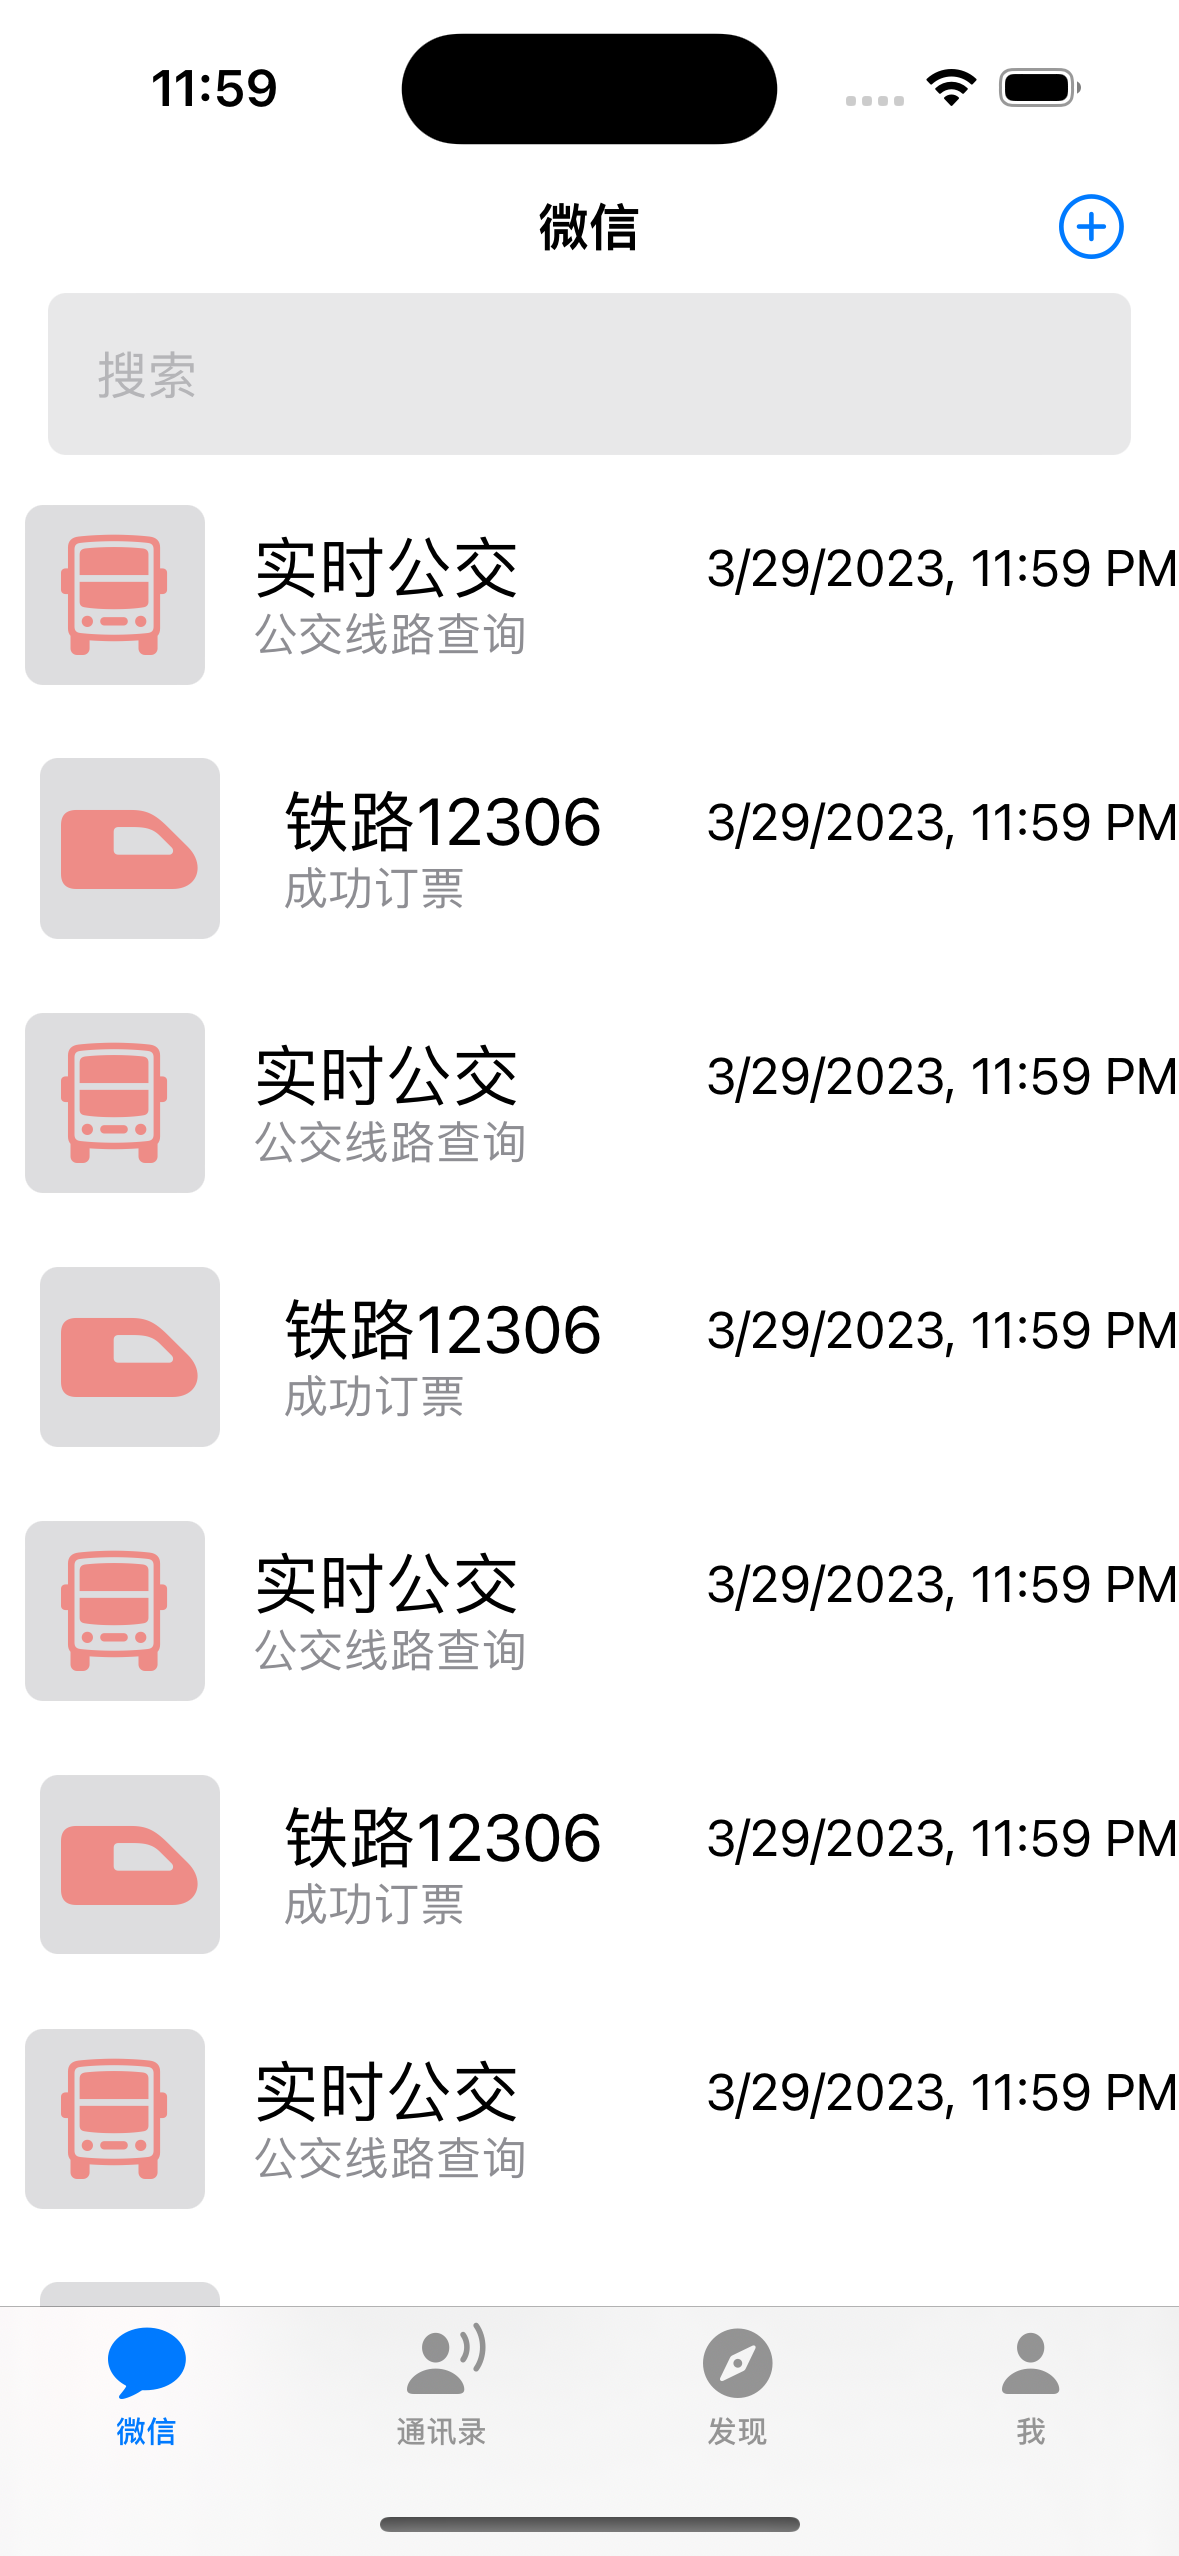
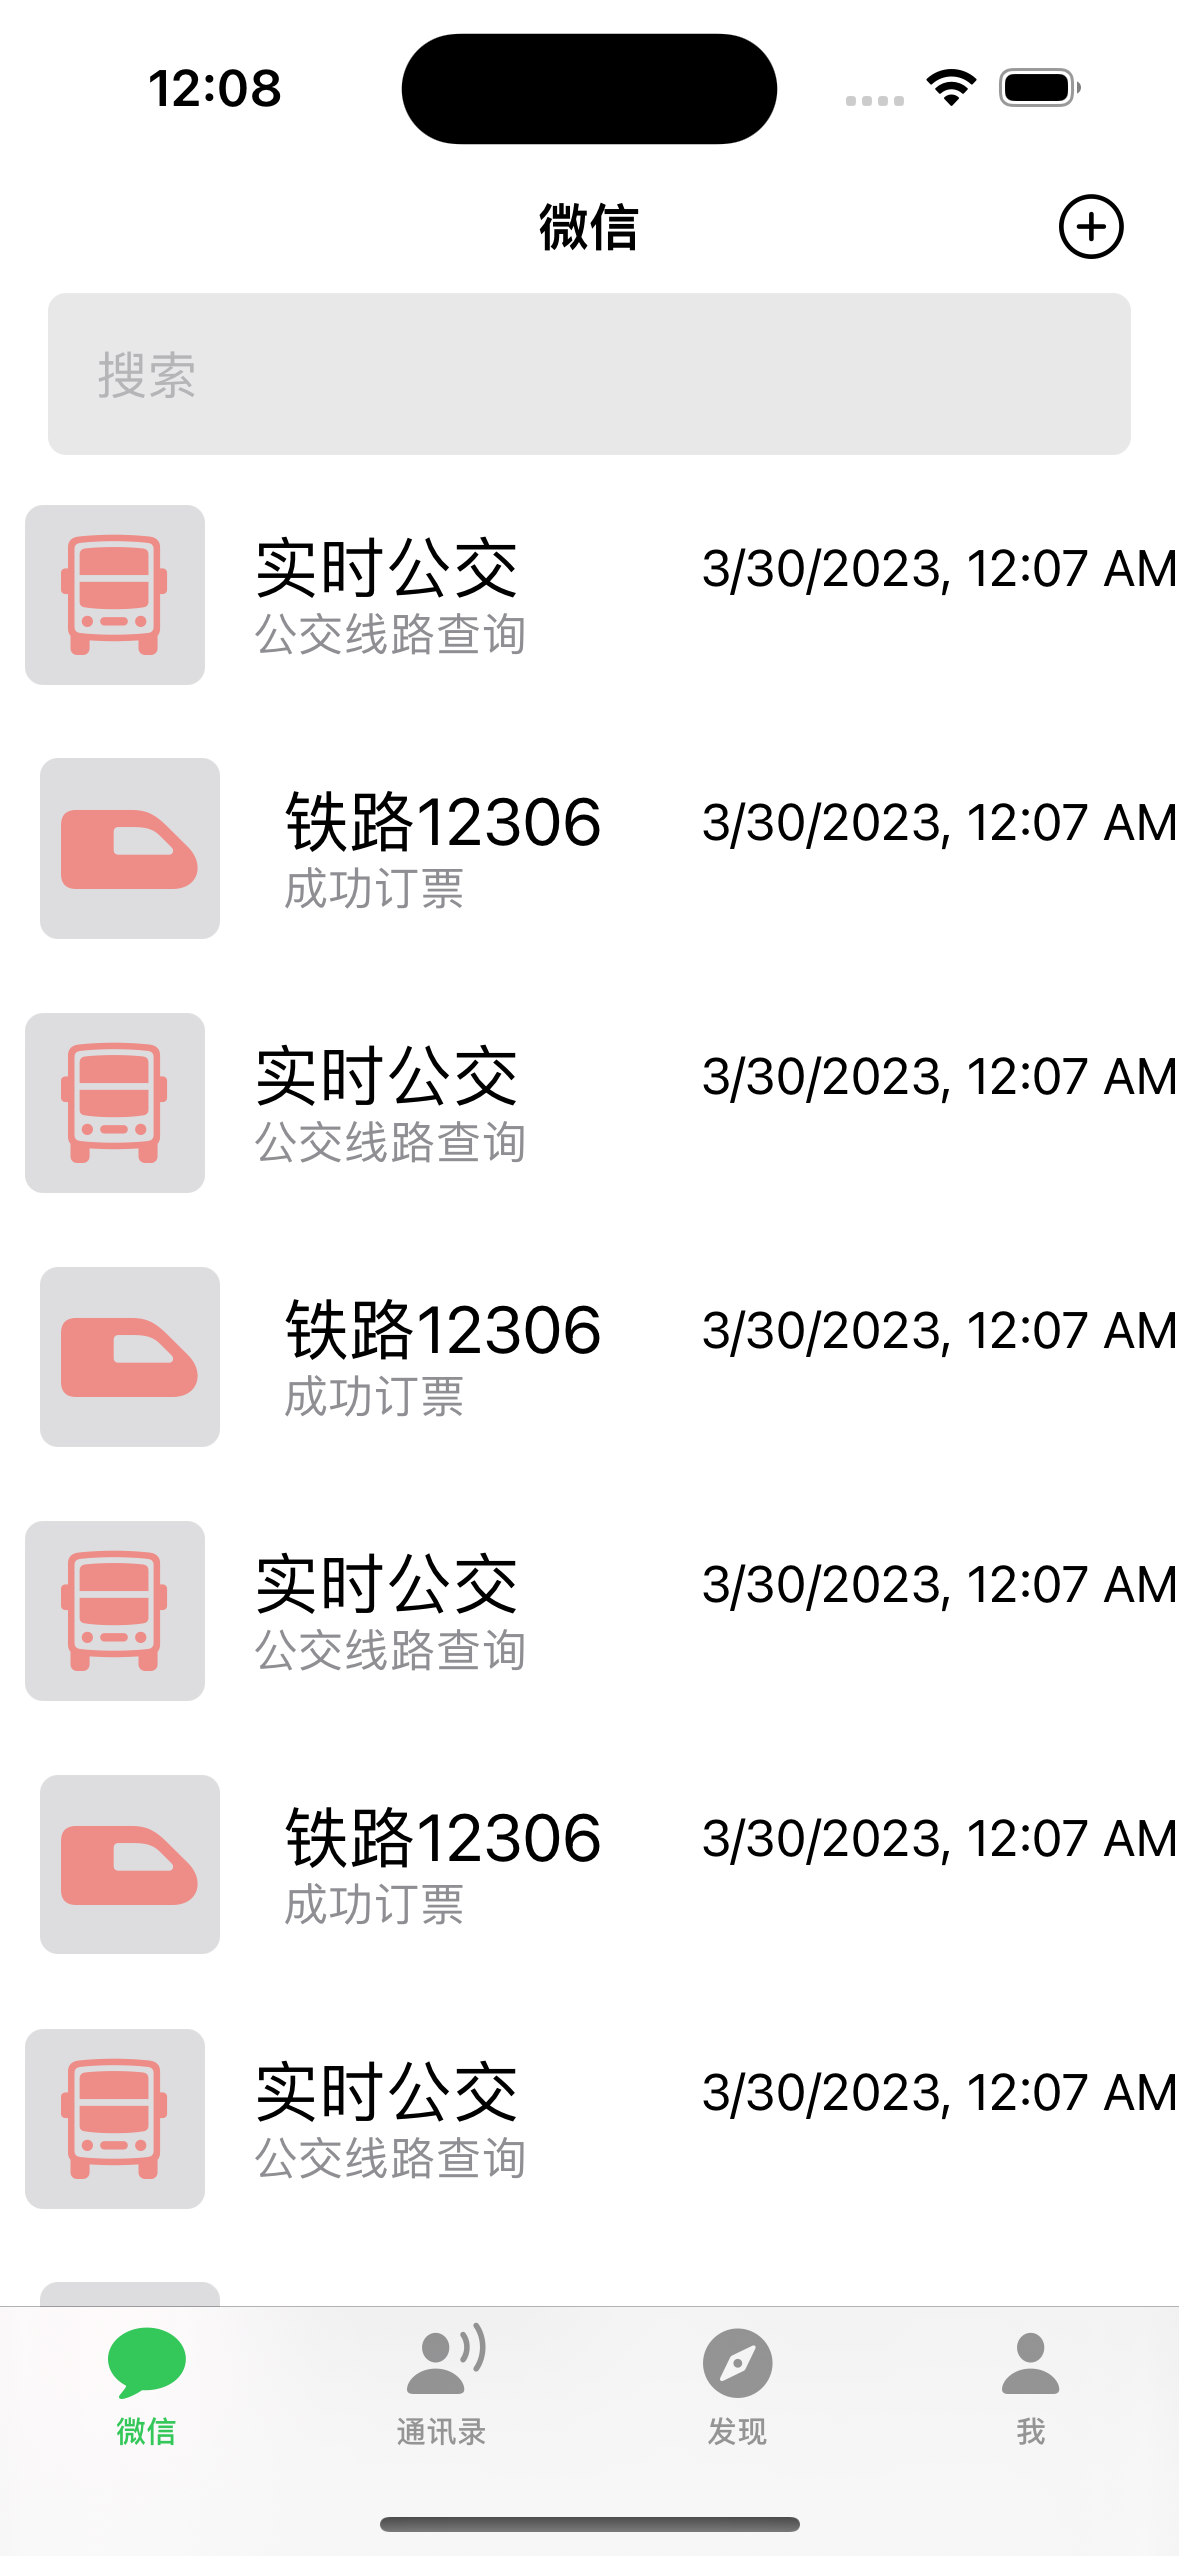
demo

diff --git a/wechat/recent/RecentView.swift b/wechat/recent/RecentView.swift
@@ -44,6 +44,8 @@ struct RecentView: View {
                 isPopover = true
             } label: {
                 Image(systemName: "plus.circle")
+                    .foregroundColor(.black
+                    )
             }
             .popover(isPresented: $isPopover) {
                 VStack{

diff --git a/wechat/wechatApp.swift b/wechat/wechatApp.swift
@@ -12,6 +12,7 @@ struct WechatApp: App {
     var body: some Scene {
         WindowGroup {
             ContentView()
+                .accentColor(.green)
         }
     }
 }
